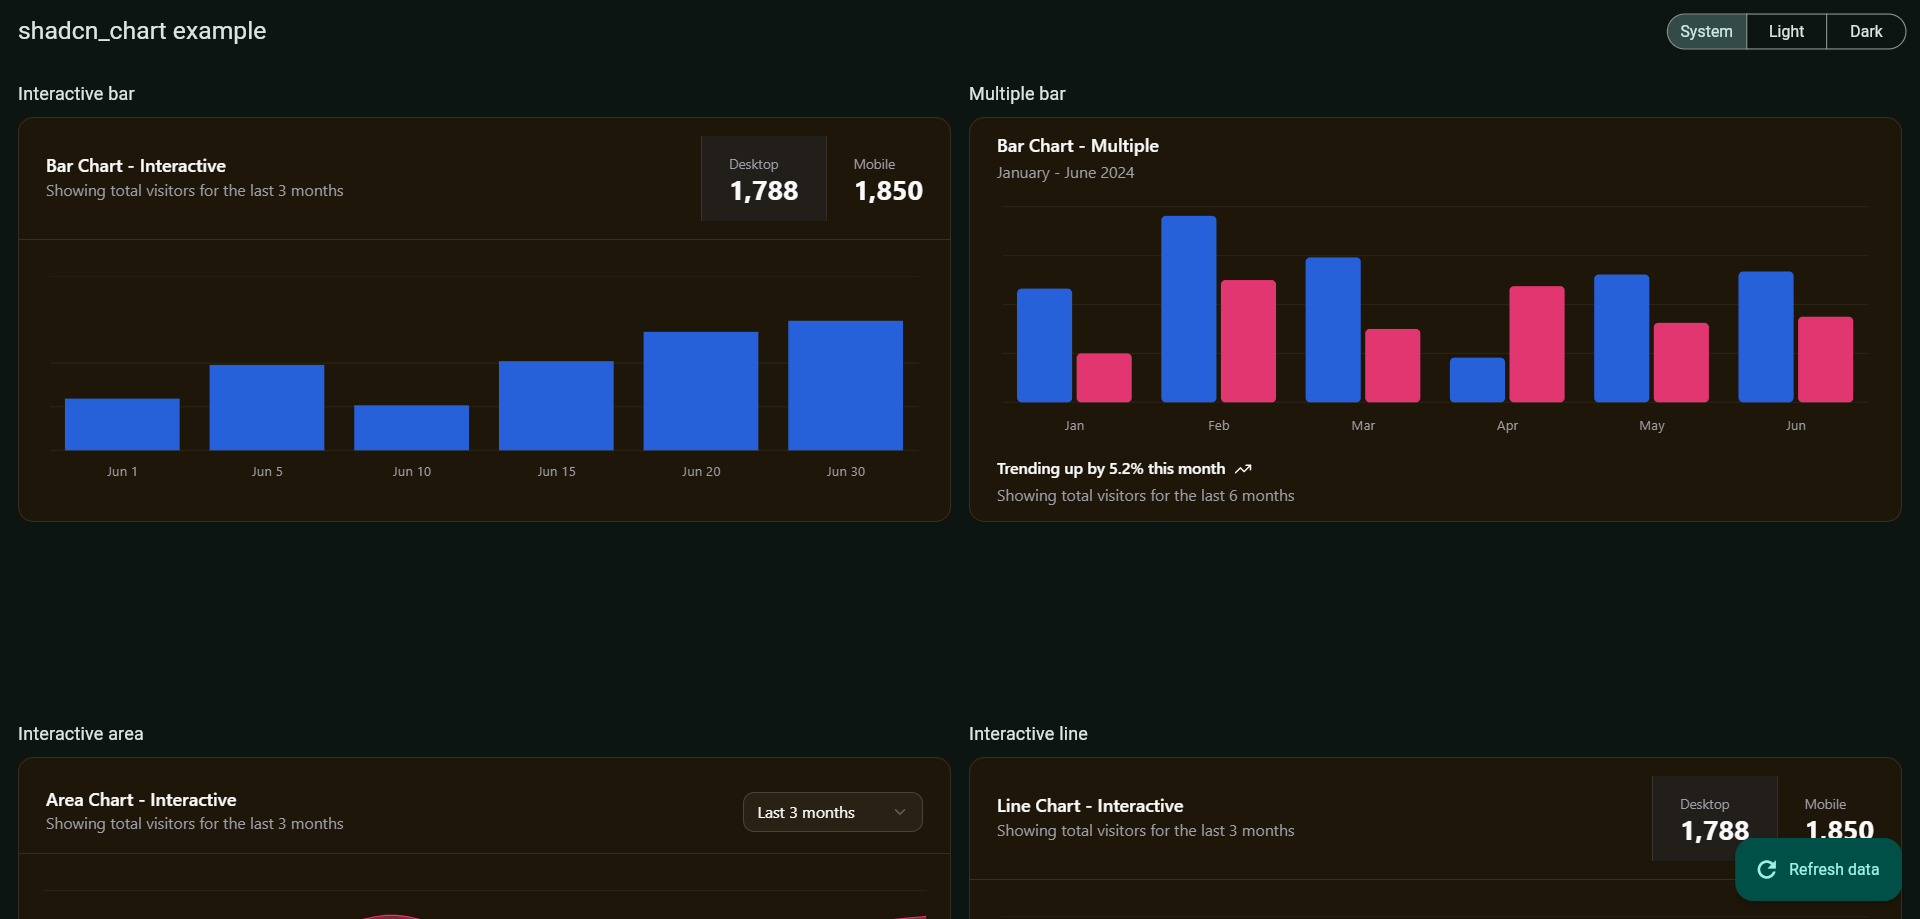
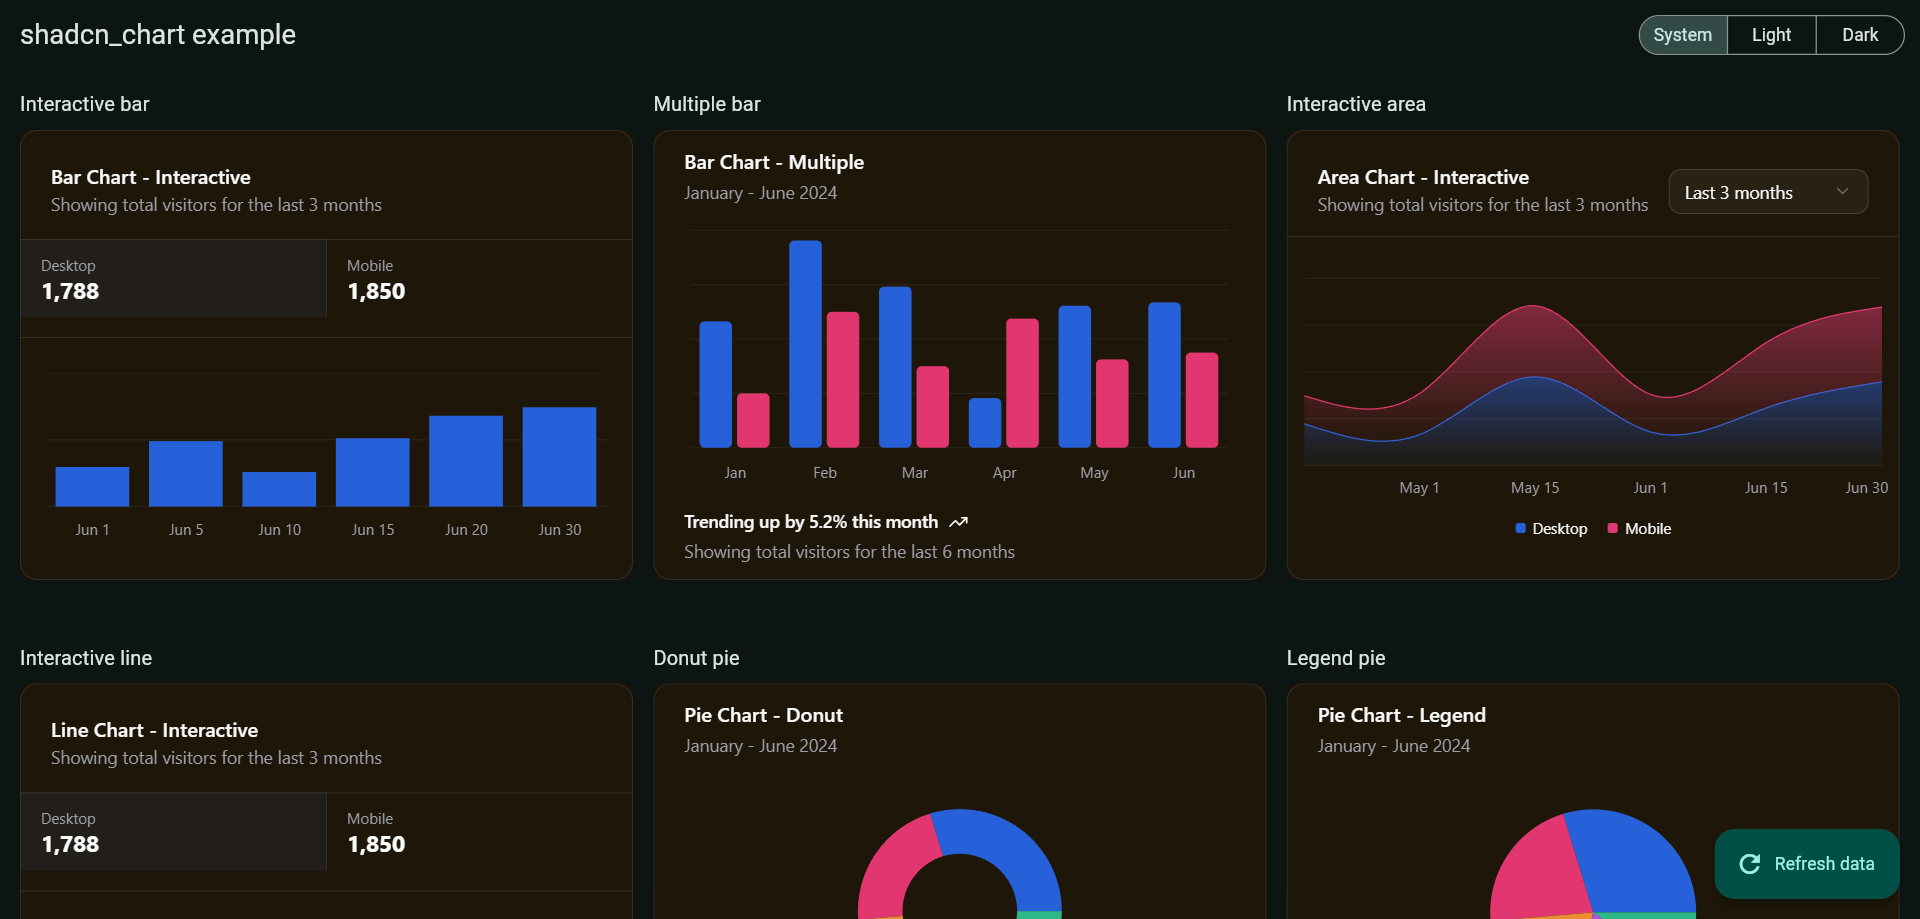
docs: update README with web screenshot and adjust example layout
Added a web preview screenshot to the README and modified the example app's grid layout by changing the child aspect ratio for better visual presentation.

diff --git a/example/lib/main.dart b/example/lib/main.dart
@@ -55,7 +55,7 @@ class _ChartExampleAppState extends State<ChartExampleApp> {
         ),
         body: GridView.count(
           crossAxisCount: 3,
-          childAspectRatio: 1.8,
+          childAspectRatio: 1.25,
           padding: const EdgeInsets.all(16),
           mainAxisSpacing: 16,
           crossAxisSpacing: 16,

diff --git a/README.md b/README.md
@@ -7,6 +7,8 @@ runtime.
 **Platforms:** Android, iOS, macOS, Windows, and Web (via
 [`flutter_inappwebview`](https://pub.dev/packages/flutter_inappwebview)).
 
+![shadcn_chart example app on web](screenshots/preview.png)
+
 See the full example in [`example/lib/main.dart`](example/lib/main.dart).
 
 ## Installation
@@ -224,10 +226,6 @@ All typed chart classes expose `toJson()`, which is the payload sent to the
 embedded renderer.
 
 ## Screenshots
-
-Example app running on web:
-
-![shadcn_chart example app on web](screenshots/preview.png)
 
 More platform screenshots will be added after the first pub.dev release.
 